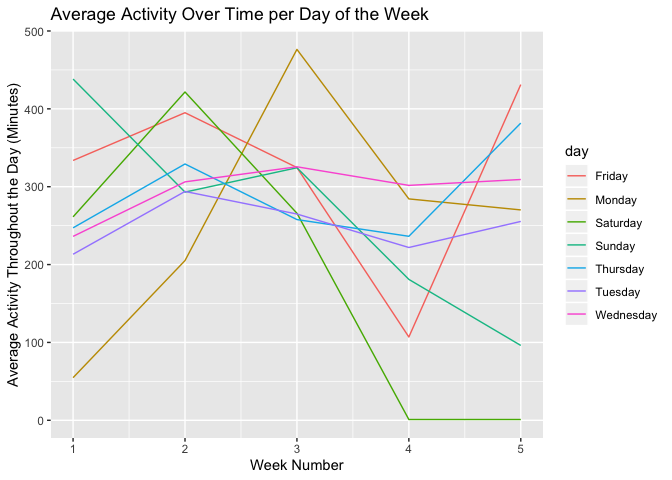
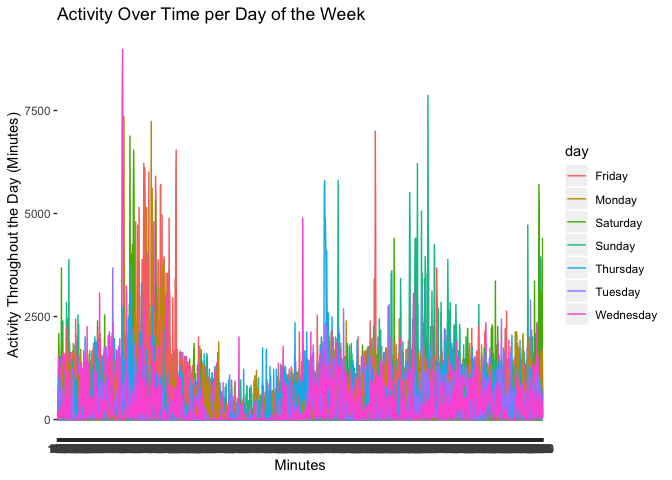
fixed the last graph

diff --git a/p8105_hw3_hmb2161.md b/p8105_hw3_hmb2161.md
@@ -293,12 +293,8 @@ mean_hour
 
 ``` r
 library(p8105.datasets)
-data("BRFSS")
-```
+data("brfss_smart2010")
 
-    ## Warning in data("BRFSS"): data set 'BRFSS' not found
-
-``` r
 #I downloaded the BRFSS data set, cleaned the names, filtered for the responses I wanted, and arranged the responses from poor to excellent
 brfss_data = 
   select(brfss_smart2010, everything()) %>%
@@ -335,11 +331,17 @@ brfss_data
     ## #   data_source <chr>, class_id <chr>, topic_id <chr>, location_id <chr>,
     ## #   question_id <chr>, respid <chr>, geo_location <chr>
 
+``` r
+#How many rows are in the dataset
+nrow(brfss_data)
+```
+
+    ## [1] 10625
+
   - BRFSS data shows the health status of different locations across
     states in the US. The responses are recorded as excellent, very
-    good, good, fair, or poor. There are rows in this dataset. The
-    median response value for the dataset is
-NA.
+    good, good, fair, or poor. There are 10,625 rows in this
+dataset.
 
 ## 2002:states with 7 or more locations
 
@@ -579,7 +581,7 @@ day
 accel_day_data =
   group_by(accel_data, week, day) %>%
   mutate(mean_activity = mean(activity_amount)) %>%
-  select(-minute, -activity_amount, -type) %>%
+  select(-type) %>%
   group_by(day) %>%
   arrange(day) %>%
   distinct()
@@ -587,32 +589,32 @@ accel_day_data =
 accel_day_data
 ```
 
-    ## # A tibble: 35 x 4
+    ## # A tibble: 50,400 x 6
     ## # Groups:   day [7]
-    ##     week day_id day    mean_activity
-    ##    <dbl>  <dbl> <chr>          <dbl>
-    ##  1     1      1 Friday         334. 
-    ##  2     2      8 Friday         395. 
-    ##  3     3     15 Friday         325. 
-    ##  4     4     22 Friday         107. 
-    ##  5     5     29 Friday         431. 
-    ##  6     1      2 Monday          54.7
-    ##  7     2      9 Monday         205. 
-    ##  8     3     16 Monday         476. 
-    ##  9     4     23 Monday         284. 
-    ## 10     5     30 Monday         270. 
-    ## # … with 25 more rows
+    ##     week day_id day    minute activity_amount mean_activity
+    ##    <dbl>  <dbl> <chr>  <chr>            <dbl>         <dbl>
+    ##  1     1      1 Friday " 1"              88.4          334.
+    ##  2     1      1 Friday " 2"              82.2          334.
+    ##  3     1      1 Friday " 3"              64.4          334.
+    ##  4     1      1 Friday " 4"              70.0          334.
+    ##  5     1      1 Friday " 5"              75.0          334.
+    ##  6     1      1 Friday " 6"              66.3          334.
+    ##  7     1      1 Friday " 7"              53.8          334.
+    ##  8     1      1 Friday " 8"              47.8          334.
+    ##  9     1      1 Friday " 9"              55.5          334.
+    ## 10     1      1 Friday " 10"             43.0          334.
+    ## # … with 50,390 more rows
 
 ## The trends apparent in the above table are that week 4 seems to have less activity than other weeks. The first week has a lot of activity compared to other weeks. Tuesday’s activity is generally less than other days and Wednesday’s is more than other days. Tuesday and Wednesday are fairly consistent across weeks in their activity levels.
 
 ``` r
-#Created a ggplot for accel day data where x is the week and y is the mean activity through the weeks. Each line represents a day of the week and reflects how activity changes in one day of the week over the 5 weeks.
-ggplot(accel_day_data, aes(x = week, y = mean_activity)) +
-  geom_line(aes(group = day, color = day)) +
+#Created a ggplot for accel day data where x is the minute and y is the activity throughout the day. Each line represents a day of the week and reflects how activity changes in one day. The colors represent the day of the week so you see the change over time for each day in different weeks.
+ggplot(accel_day_data, aes(x = minute, y = activity_amount, color = day, group = day_id)) +
+  geom_line(aes(color = day, group = day_id)) +
   labs(
-    title = "Average Activity Over Time per Day of the Week",
-        x = "Week Number",
-        y = "Average Activity Throughout the Day (Minutes)"
+    title = "Activity Over Time per Day of the Week",
+        x = "Minutes",
+        y = "Activity Throughout the Day (Minutes)"
   )
 ```
 
